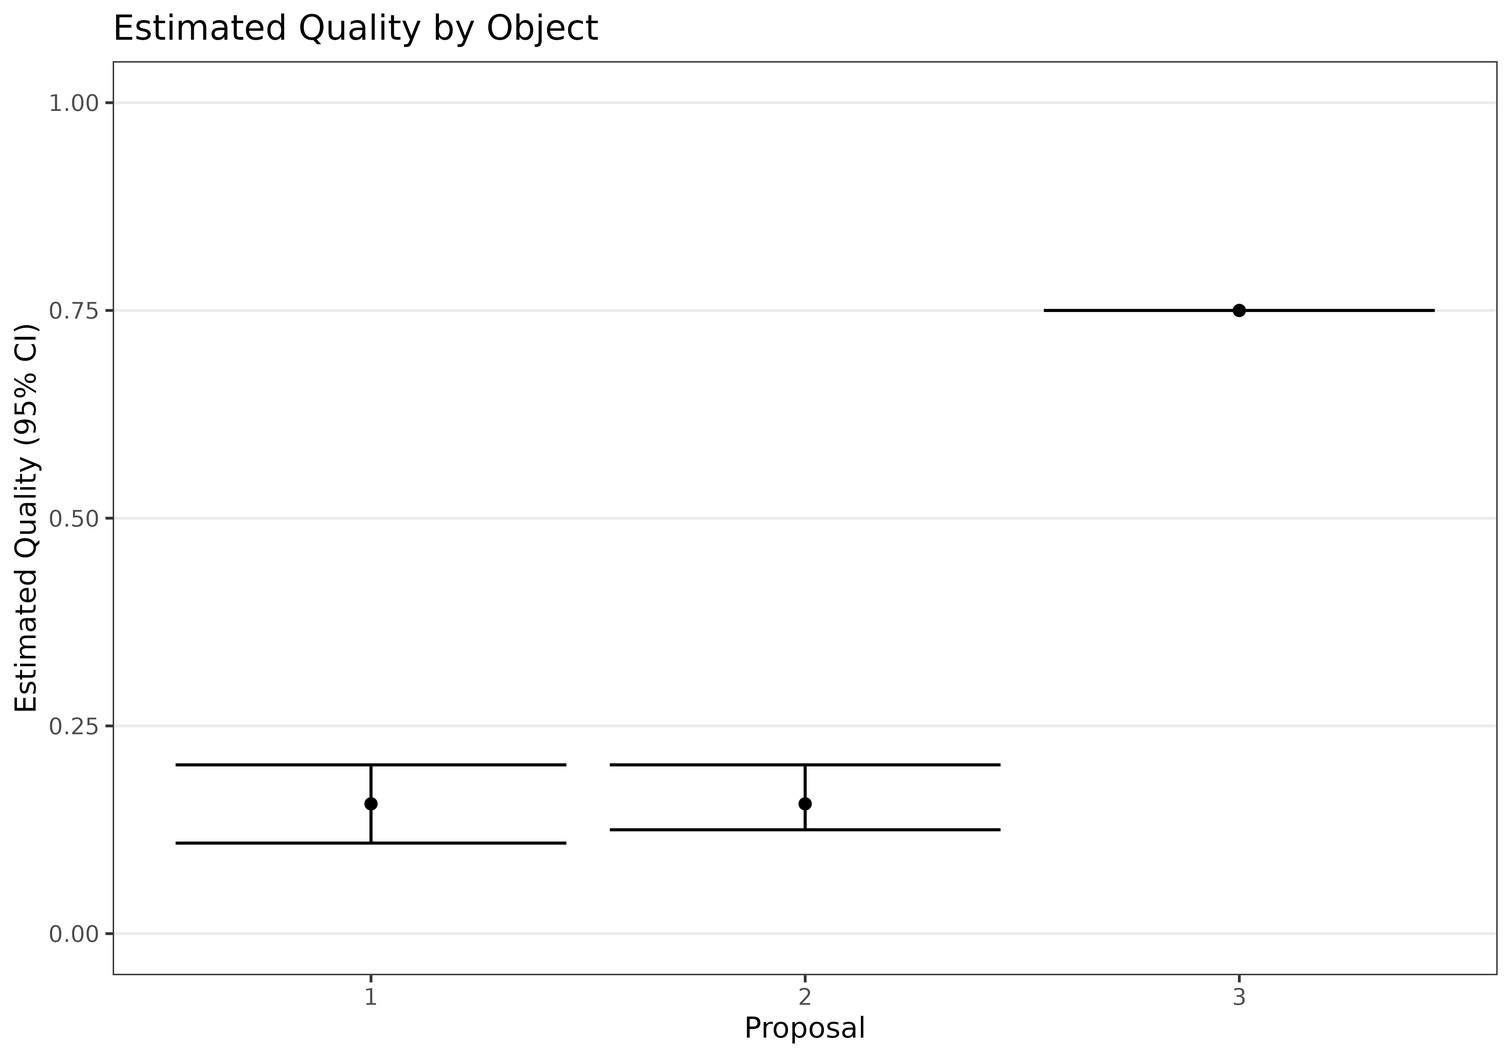
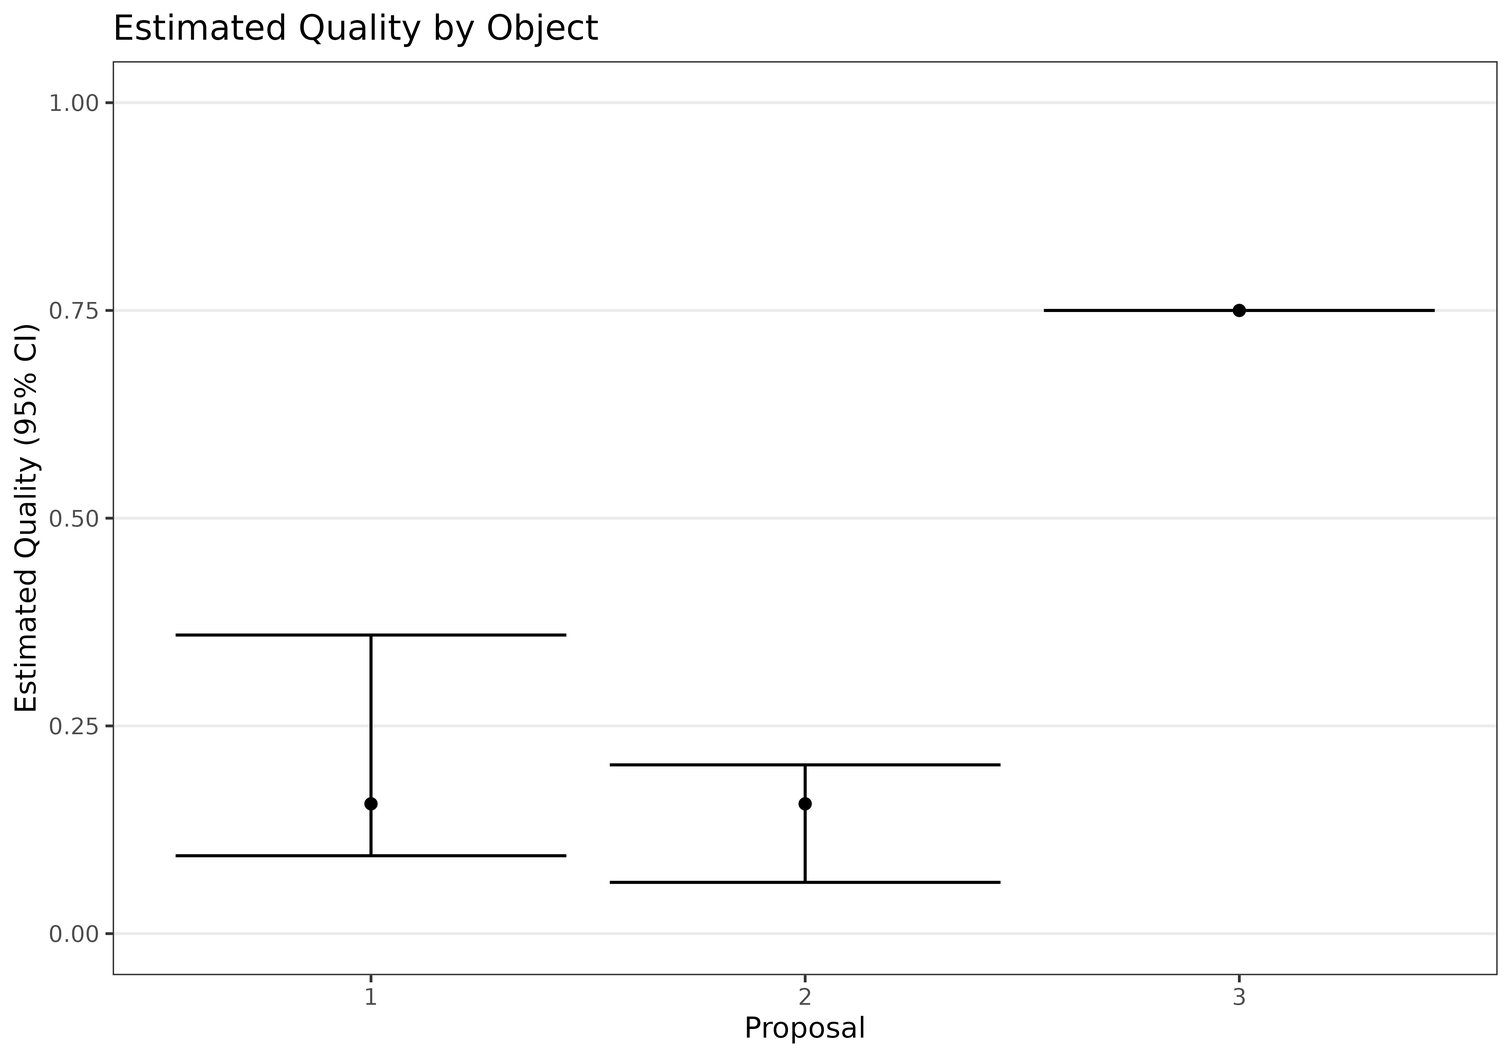
Deploying to gh-pages from @ pearce790/rankrate@f9b3c4f29bfd0eed65bd21937f1b0fa3187043d0 🚀

diff --git a/reference/ci_mb.html b/reference/ci_mb.html
@@ -113,9 +113,9 @@ matrix of bootstrap estimates of (p,theta) (returned only if <code>all==TRUE</co
     <div class="sourceCode"><pre class="sourceCode r"><code><span class="r-in"><span><span class="fu"><a href="https://rdrr.io/r/utils/data.html" class="external-link">data</a></span><span class="op">(</span><span class="st">"ToyData1"</span><span class="op">)</span></span></span>
 <span class="r-in"><span><span class="fu">ci_mb</span><span class="op">(</span><span class="va">ToyData1</span><span class="op">$</span><span class="va">rankings</span>,<span class="va">ToyData1</span><span class="op">$</span><span class="va">ratings</span>,<span class="va">ToyData1</span><span class="op">$</span><span class="va">M</span>,method<span class="op">=</span><span class="st">"ASTAR"</span>,all<span class="op">=</span><span class="cn">TRUE</span><span class="op">)</span></span></span>
 <span class="r-out co"><span class="r-pr">#&gt;</span> $ci</span>
-<span class="r-out co"><span class="r-pr">#&gt;</span>            p1        p2   p3 theta</span>
-<span class="r-out co"><span class="r-pr">#&gt;</span> 5%  0.0781250 0.0781250 0.75 1e+08</span>
-<span class="r-out co"><span class="r-pr">#&gt;</span> 95% 0.1804687 0.1804687 0.75 1e+08</span>
+<span class="r-out co"><span class="r-pr">#&gt;</span>           p1       p2   p3 theta</span>
+<span class="r-out co"><span class="r-pr">#&gt;</span> 5%  0.078125 0.078125 0.75 1e+08</span>
+<span class="r-out co"><span class="r-pr">#&gt;</span> 95% 0.171875 0.171875 0.75 1e+08</span>
 <span class="r-out co"><span class="r-pr">#&gt;</span> </span>
 <span class="r-out co"><span class="r-pr">#&gt;</span> $ci_ranks</span>
 <span class="r-out co"><span class="r-pr">#&gt;</span>     Object1 Object2 Object3</span>
@@ -177,55 +177,55 @@ matrix of bootstrap estimates of (p,theta) (returned only if <code>all==TRUE</co
 <span class="r-out co"><span class="r-pr">#&gt;</span> </span>
 <span class="r-out co"><span class="r-pr">#&gt;</span> $bootstrap_ptheta</span>
 <span class="r-out co"><span class="r-pr">#&gt;</span>             p1       p2   p3 theta</span>
-<span class="r-out co"><span class="r-pr">#&gt;</span>  [1,] 0.140625 0.140625 0.75 1e+08</span>
-<span class="r-out co"><span class="r-pr">#&gt;</span>  [2,] 0.093750 0.093750 0.75 1e+08</span>
-<span class="r-out co"><span class="r-pr">#&gt;</span>  [3,] 0.203125 0.203125 0.75 1e+08</span>
-<span class="r-out co"><span class="r-pr">#&gt;</span>  [4,] 0.109375 0.109375 0.75 1e+08</span>
-<span class="r-out co"><span class="r-pr">#&gt;</span>  [5,] 0.156250 0.156250 0.75 1e+08</span>
-<span class="r-out co"><span class="r-pr">#&gt;</span>  [6,] 0.156250 0.156250 0.75 1e+08</span>
-<span class="r-out co"><span class="r-pr">#&gt;</span>  [7,] 0.109375 0.109375 0.75 1e+08</span>
+<span class="r-out co"><span class="r-pr">#&gt;</span>  [1,] 0.078125 0.078125 0.75 1e+08</span>
+<span class="r-out co"><span class="r-pr">#&gt;</span>  [2,] 0.125000 0.125000 0.75 1e+08</span>
+<span class="r-out co"><span class="r-pr">#&gt;</span>  [3,] 0.140625 0.140625 0.75 1e+08</span>
+<span class="r-out co"><span class="r-pr">#&gt;</span>  [4,] 0.140625 0.140625 0.75 1e+08</span>
+<span class="r-out co"><span class="r-pr">#&gt;</span>  [5,] 0.093750 0.093750 0.75 1e+08</span>
+<span class="r-out co"><span class="r-pr">#&gt;</span>  [6,] 0.093750 0.093750 0.75 1e+08</span>
+<span class="r-out co"><span class="r-pr">#&gt;</span>  [7,] 0.093750 0.093750 0.75 1e+08</span>
 <span class="r-out co"><span class="r-pr">#&gt;</span>  [8,] 0.125000 0.125000 0.75 1e+08</span>
-<span class="r-out co"><span class="r-pr">#&gt;</span>  [9,] 0.171875 0.171875 0.75 1e+08</span>
-<span class="r-out co"><span class="r-pr">#&gt;</span> [10,] 0.062500 0.062500 0.75 1e+08</span>
-<span class="r-out co"><span class="r-pr">#&gt;</span> [11,] 0.093750 0.093750 0.75 1e+08</span>
-<span class="r-out co"><span class="r-pr">#&gt;</span> [12,] 0.140625 0.140625 0.75 1e+08</span>
-<span class="r-out co"><span class="r-pr">#&gt;</span> [13,] 0.093750 0.093750 0.75 1e+08</span>
+<span class="r-out co"><span class="r-pr">#&gt;</span>  [9,] 0.109375 0.109375 0.75 1e+08</span>
+<span class="r-out co"><span class="r-pr">#&gt;</span> [10,] 0.109375 0.109375 0.75 1e+08</span>
+<span class="r-out co"><span class="r-pr">#&gt;</span> [11,] 0.156250 0.156250 0.75 1e+08</span>
+<span class="r-out co"><span class="r-pr">#&gt;</span> [12,] 0.125000 0.125000 0.75 1e+08</span>
+<span class="r-out co"><span class="r-pr">#&gt;</span> [13,] 0.156250 0.156250 0.75 1e+08</span>
 <span class="r-out co"><span class="r-pr">#&gt;</span> [14,] 0.125000 0.125000 0.75 1e+08</span>
-<span class="r-out co"><span class="r-pr">#&gt;</span> [15,] 0.156250 0.156250 0.75 1e+08</span>
-<span class="r-out co"><span class="r-pr">#&gt;</span> [16,] 0.140625 0.140625 0.75 1e+08</span>
-<span class="r-out co"><span class="r-pr">#&gt;</span> [17,] 0.078125 0.078125 0.75 1e+08</span>
-<span class="r-out co"><span class="r-pr">#&gt;</span> [18,] 0.109375 0.109375 0.75 1e+08</span>
-<span class="r-out co"><span class="r-pr">#&gt;</span> [19,] 0.140625 0.140625 0.75 1e+08</span>
-<span class="r-out co"><span class="r-pr">#&gt;</span> [20,] 0.093750 0.093750 0.75 1e+08</span>
-<span class="r-out co"><span class="r-pr">#&gt;</span> [21,] 0.140625 0.140625 0.75 1e+08</span>
-<span class="r-out co"><span class="r-pr">#&gt;</span> [22,] 0.125000 0.125000 0.75 1e+08</span>
+<span class="r-out co"><span class="r-pr">#&gt;</span> [15,] 0.125000 0.125000 0.75 1e+08</span>
+<span class="r-out co"><span class="r-pr">#&gt;</span> [16,] 0.078125 0.078125 0.75 1e+08</span>
+<span class="r-out co"><span class="r-pr">#&gt;</span> [17,] 0.125000 0.125000 0.75 1e+08</span>
+<span class="r-out co"><span class="r-pr">#&gt;</span> [18,] 0.171875 0.171875 0.75 1e+08</span>
+<span class="r-out co"><span class="r-pr">#&gt;</span> [19,] 0.093750 0.093750 0.75 1e+08</span>
+<span class="r-out co"><span class="r-pr">#&gt;</span> [20,] 0.109375 0.109375 0.75 1e+08</span>
+<span class="r-out co"><span class="r-pr">#&gt;</span> [21,] 0.171875 0.171875 0.75 1e+08</span>
+<span class="r-out co"><span class="r-pr">#&gt;</span> [22,] 0.140625 0.140625 0.75 1e+08</span>
 <span class="r-out co"><span class="r-pr">#&gt;</span> [23,] 0.125000 0.125000 0.75 1e+08</span>
-<span class="r-out co"><span class="r-pr">#&gt;</span> [24,] 0.140625 0.140625 0.75 1e+08</span>
+<span class="r-out co"><span class="r-pr">#&gt;</span> [24,] 0.062500 0.062500 0.75 1e+08</span>
 <span class="r-out co"><span class="r-pr">#&gt;</span> [25,] 0.125000 0.125000 0.75 1e+08</span>
-<span class="r-out co"><span class="r-pr">#&gt;</span> [26,] 0.156250 0.156250 0.75 1e+08</span>
+<span class="r-out co"><span class="r-pr">#&gt;</span> [26,] 0.125000 0.125000 0.75 1e+08</span>
 <span class="r-out co"><span class="r-pr">#&gt;</span> [27,] 0.140625 0.140625 0.75 1e+08</span>
-<span class="r-out co"><span class="r-pr">#&gt;</span> [28,] 0.140625 0.140625 0.75 1e+08</span>
-<span class="r-out co"><span class="r-pr">#&gt;</span> [29,] 0.109375 0.109375 0.75 1e+08</span>
-<span class="r-out co"><span class="r-pr">#&gt;</span> [30,] 0.109375 0.109375 0.75 1e+08</span>
-<span class="r-out co"><span class="r-pr">#&gt;</span> [31,] 0.140625 0.140625 0.75 1e+08</span>
-<span class="r-out co"><span class="r-pr">#&gt;</span> [32,] 0.078125 0.078125 0.75 1e+08</span>
-<span class="r-out co"><span class="r-pr">#&gt;</span> [33,] 0.062500 0.062500 0.75 1e+08</span>
-<span class="r-out co"><span class="r-pr">#&gt;</span> [34,] 0.140625 0.140625 0.75 1e+08</span>
-<span class="r-out co"><span class="r-pr">#&gt;</span> [35,] 0.156250 0.156250 0.75 1e+08</span>
-<span class="r-out co"><span class="r-pr">#&gt;</span> [36,] 0.187500 0.187500 0.75 1e+08</span>
-<span class="r-out co"><span class="r-pr">#&gt;</span> [37,] 0.125000 0.125000 0.75 1e+08</span>
-<span class="r-out co"><span class="r-pr">#&gt;</span> [38,] 0.125000 0.125000 0.75 1e+08</span>
-<span class="r-out co"><span class="r-pr">#&gt;</span> [39,] 0.156250 0.156250 0.75 1e+08</span>
+<span class="r-out co"><span class="r-pr">#&gt;</span> [28,] 0.093750 0.093750 0.75 1e+08</span>
+<span class="r-out co"><span class="r-pr">#&gt;</span> [29,] 0.078125 0.078125 0.75 1e+08</span>
+<span class="r-out co"><span class="r-pr">#&gt;</span> [30,] 0.046875 0.046875 0.75 1e+08</span>
+<span class="r-out co"><span class="r-pr">#&gt;</span> [31,] 0.203125 0.203125 0.75 1e+08</span>
+<span class="r-out co"><span class="r-pr">#&gt;</span> [32,] 0.093750 0.093750 0.75 1e+08</span>
+<span class="r-out co"><span class="r-pr">#&gt;</span> [33,] 0.078125 0.078125 0.75 1e+08</span>
+<span class="r-out co"><span class="r-pr">#&gt;</span> [34,] 0.093750 0.093750 0.75 1e+08</span>
+<span class="r-out co"><span class="r-pr">#&gt;</span> [35,] 0.093750 0.093750 0.75 1e+08</span>
+<span class="r-out co"><span class="r-pr">#&gt;</span> [36,] 0.140625 0.140625 0.75 1e+08</span>
+<span class="r-out co"><span class="r-pr">#&gt;</span> [37,] 0.140625 0.140625 0.75 1e+08</span>
+<span class="r-out co"><span class="r-pr">#&gt;</span> [38,] 0.109375 0.109375 0.75 1e+08</span>
+<span class="r-out co"><span class="r-pr">#&gt;</span> [39,] 0.187500 0.187500 0.75 1e+08</span>
 <span class="r-out co"><span class="r-pr">#&gt;</span> [40,] 0.093750 0.093750 0.75 1e+08</span>
-<span class="r-out co"><span class="r-pr">#&gt;</span> [41,] 0.093750 0.093750 0.75 1e+08</span>
+<span class="r-out co"><span class="r-pr">#&gt;</span> [41,] 0.140625 0.140625 0.75 1e+08</span>
 <span class="r-out co"><span class="r-pr">#&gt;</span> [42,] 0.156250 0.156250 0.75 1e+08</span>
 <span class="r-out co"><span class="r-pr">#&gt;</span> [43,] 0.125000 0.125000 0.75 1e+08</span>
-<span class="r-out co"><span class="r-pr">#&gt;</span> [44,] 0.078125 0.078125 0.75 1e+08</span>
-<span class="r-out co"><span class="r-pr">#&gt;</span> [45,] 0.140625 0.140625 0.75 1e+08</span>
-<span class="r-out co"><span class="r-pr">#&gt;</span> [46,] 0.203125 0.203125 0.75 1e+08</span>
-<span class="r-out co"><span class="r-pr">#&gt;</span> [47,] 0.125000 0.125000 0.75 1e+08</span>
-<span class="r-out co"><span class="r-pr">#&gt;</span> [48,] 0.109375 0.109375 0.75 1e+08</span>
-<span class="r-out co"><span class="r-pr">#&gt;</span> [49,] 0.140625 0.140625 0.75 1e+08</span>
+<span class="r-out co"><span class="r-pr">#&gt;</span> [44,] 0.093750 0.093750 0.75 1e+08</span>
+<span class="r-out co"><span class="r-pr">#&gt;</span> [45,] 0.125000 0.125000 0.75 1e+08</span>
+<span class="r-out co"><span class="r-pr">#&gt;</span> [46,] 0.125000 0.125000 0.75 1e+08</span>
+<span class="r-out co"><span class="r-pr">#&gt;</span> [47,] 0.156250 0.156250 0.75 1e+08</span>
+<span class="r-out co"><span class="r-pr">#&gt;</span> [48,] 0.125000 0.125000 0.75 1e+08</span>
+<span class="r-out co"><span class="r-pr">#&gt;</span> [49,] 0.109375 0.109375 0.75 1e+08</span>
 <span class="r-out co"><span class="r-pr">#&gt;</span> [50,] 0.109375 0.109375 0.75 1e+08</span>
 <span class="r-out co"><span class="r-pr">#&gt;</span> </span>
 <span class="r-in"><span></span></span>

diff --git a/reference/rmb.html b/reference/rmb.html
@@ -96,19 +96,19 @@ and <code>M</code>, the inputted maximum integer rating.</p>
     <div class="sourceCode"><pre class="sourceCode r"><code><span class="r-in"><span><span class="fu">rmb</span><span class="op">(</span>I<span class="op">=</span><span class="fl">5</span>,p<span class="op">=</span><span class="fu"><a href="https://rdrr.io/r/base/c.html" class="external-link">c</a></span><span class="op">(</span><span class="fl">.1</span>,<span class="fl">.3</span>,<span class="fl">.4</span>,<span class="fl">.7</span>,<span class="fl">.9</span><span class="op">)</span>,theta<span class="op">=</span><span class="fl">1</span>,M<span class="op">=</span><span class="fl">10</span><span class="op">)</span></span></span>
 <span class="r-out co"><span class="r-pr">#&gt;</span> $ratings</span>
 <span class="r-out co"><span class="r-pr">#&gt;</span>      [,1] [,2] [,3] [,4] [,5]</span>
-<span class="r-out co"><span class="r-pr">#&gt;</span> [1,]    3    2    6    9   10</span>
-<span class="r-out co"><span class="r-pr">#&gt;</span> [2,]    1    5    3    9    8</span>
-<span class="r-out co"><span class="r-pr">#&gt;</span> [3,]    1    3    4    6    8</span>
-<span class="r-out co"><span class="r-pr">#&gt;</span> [4,]    1    2    4    8    7</span>
-<span class="r-out co"><span class="r-pr">#&gt;</span> [5,]    2    2    3    6    9</span>
+<span class="r-out co"><span class="r-pr">#&gt;</span> [1,]    2    1    4    7    9</span>
+<span class="r-out co"><span class="r-pr">#&gt;</span> [2,]    1    2    2    8    9</span>
+<span class="r-out co"><span class="r-pr">#&gt;</span> [3,]    0    4    6    4    9</span>
+<span class="r-out co"><span class="r-pr">#&gt;</span> [4,]    0    4    5    8   10</span>
+<span class="r-out co"><span class="r-pr">#&gt;</span> [5,]    2    6    7    9    9</span>
 <span class="r-out co"><span class="r-pr">#&gt;</span> </span>
 <span class="r-out co"><span class="r-pr">#&gt;</span> $rankings</span>
 <span class="r-out co"><span class="r-pr">#&gt;</span>      [,1] [,2] [,3] [,4] [,5]</span>
-<span class="r-out co"><span class="r-pr">#&gt;</span> [1,]    2    1    3    4    5</span>
-<span class="r-out co"><span class="r-pr">#&gt;</span> [2,]    2    3    1    4    5</span>
-<span class="r-out co"><span class="r-pr">#&gt;</span> [3,]    2    4    1    3    5</span>
-<span class="r-out co"><span class="r-pr">#&gt;</span> [4,]    2    3    4    1    5</span>
-<span class="r-out co"><span class="r-pr">#&gt;</span> [5,]    2    1    3    5    4</span>
+<span class="r-out co"><span class="r-pr">#&gt;</span> [1,]    1    3    2    4    5</span>
+<span class="r-out co"><span class="r-pr">#&gt;</span> [2,]    1    3    5    2    4</span>
+<span class="r-out co"><span class="r-pr">#&gt;</span> [3,]    1    2    3    5    4</span>
+<span class="r-out co"><span class="r-pr">#&gt;</span> [4,]    3    1    4    2    5</span>
+<span class="r-out co"><span class="r-pr">#&gt;</span> [5,]    1    4    3    5    2</span>
 <span class="r-out co"><span class="r-pr">#&gt;</span> </span>
 <span class="r-out co"><span class="r-pr">#&gt;</span> $M</span>
 <span class="r-out co"><span class="r-pr">#&gt;</span> [1] 10</span>
@@ -116,16 +116,16 @@ and <code>M</code>, the inputted maximum integer rating.</p>
 <span class="r-in"><span><span class="fu">rmb</span><span class="op">(</span>I<span class="op">=</span><span class="fl">10</span>,p<span class="op">=</span><span class="fu"><a href="https://rdrr.io/r/base/c.html" class="external-link">c</a></span><span class="op">(</span><span class="fl">.1</span>,<span class="fl">.3</span>,<span class="fl">.3</span>,<span class="fl">.7</span>,<span class="fl">.9</span><span class="op">)</span>,pi0<span class="op">=</span><span class="fu"><a href="https://rdrr.io/r/base/c.html" class="external-link">c</a></span><span class="op">(</span><span class="fl">1</span>,<span class="fl">3</span>,<span class="fl">2</span>,<span class="fl">4</span>,<span class="fl">5</span><span class="op">)</span>,theta<span class="op">=</span><span class="fl">5</span>,M<span class="op">=</span><span class="fl">40</span>,R<span class="op">=</span><span class="fl">3</span><span class="op">)</span></span></span>
 <span class="r-out co"><span class="r-pr">#&gt;</span> $ratings</span>
 <span class="r-out co"><span class="r-pr">#&gt;</span>       [,1] [,2] [,3] [,4] [,5]</span>
-<span class="r-out co"><span class="r-pr">#&gt;</span>  [1,]    3   11   13   31   38</span>
-<span class="r-out co"><span class="r-pr">#&gt;</span>  [2,]    2   10   12   28   34</span>
-<span class="r-out co"><span class="r-pr">#&gt;</span>  [3,]    3   15   11   31   37</span>
-<span class="r-out co"><span class="r-pr">#&gt;</span>  [4,]    5   12   14   25   35</span>
-<span class="r-out co"><span class="r-pr">#&gt;</span>  [5,]    5    7   16   29   33</span>
-<span class="r-out co"><span class="r-pr">#&gt;</span>  [6,]    6   13    8   28   36</span>
-<span class="r-out co"><span class="r-pr">#&gt;</span>  [7,]    5   11   14   29   35</span>
-<span class="r-out co"><span class="r-pr">#&gt;</span>  [8,]    2   14    5   30   38</span>
-<span class="r-out co"><span class="r-pr">#&gt;</span>  [9,]    6   12    9   34   38</span>
-<span class="r-out co"><span class="r-pr">#&gt;</span> [10,]    5   15   12   27   36</span>
+<span class="r-out co"><span class="r-pr">#&gt;</span>  [1,]    7   14   12   25   35</span>
+<span class="r-out co"><span class="r-pr">#&gt;</span>  [2,]    4   17   16   25   35</span>
+<span class="r-out co"><span class="r-pr">#&gt;</span>  [3,]    6   12   11   25   36</span>
+<span class="r-out co"><span class="r-pr">#&gt;</span>  [4,]    5   11   12   31   33</span>
+<span class="r-out co"><span class="r-pr">#&gt;</span>  [5,]    4    4   13   22   34</span>
+<span class="r-out co"><span class="r-pr">#&gt;</span>  [6,]    4   10   16   28   37</span>
+<span class="r-out co"><span class="r-pr">#&gt;</span>  [7,]    6   12   11   25   35</span>
+<span class="r-out co"><span class="r-pr">#&gt;</span>  [8,]    7    5   12   27   37</span>
+<span class="r-out co"><span class="r-pr">#&gt;</span>  [9,]    4   10   15   26   37</span>
+<span class="r-out co"><span class="r-pr">#&gt;</span> [10,]    4   11    9   31   39</span>
 <span class="r-out co"><span class="r-pr">#&gt;</span> </span>
 <span class="r-out co"><span class="r-pr">#&gt;</span> $rankings</span>
 <span class="r-out co"><span class="r-pr">#&gt;</span>       [,1] [,2] [,3] [,4] [,5]</span>
@@ -138,7 +138,7 @@ and <code>M</code>, the inputted maximum integer rating.</p>
 <span class="r-out co"><span class="r-pr">#&gt;</span>  [7,]    1    3    2   NA   NA</span>
 <span class="r-out co"><span class="r-pr">#&gt;</span>  [8,]    1    3    2   NA   NA</span>
 <span class="r-out co"><span class="r-pr">#&gt;</span>  [9,]    1    3    2   NA   NA</span>
-<span class="r-out co"><span class="r-pr">#&gt;</span> [10,]    1    3    2   NA   NA</span>
+<span class="r-out co"><span class="r-pr">#&gt;</span> [10,]    3    1    2   NA   NA</span>
 <span class="r-out co"><span class="r-pr">#&gt;</span> </span>
 <span class="r-out co"><span class="r-pr">#&gt;</span> $M</span>
 <span class="r-out co"><span class="r-pr">#&gt;</span> [1] 40</span>

diff --git a/reference/rmall.html b/reference/rmall.html
@@ -85,25 +85,25 @@ rankings are drawn by definition.</p></dd>
     <h2>Examples</h2>
     <div class="sourceCode"><pre class="sourceCode r"><code><span class="r-in"><span><span class="fu">rmall</span><span class="op">(</span>I<span class="op">=</span><span class="fl">5</span>,pi0<span class="op">=</span><span class="fl">1</span><span class="op">:</span><span class="fl">5</span>,theta<span class="op">=</span><span class="fl">1</span>,R<span class="op">=</span><span class="fl">3</span><span class="op">)</span></span></span>
 <span class="r-out co"><span class="r-pr">#&gt;</span>      [,1] [,2] [,3] [,4] [,5]</span>
-<span class="r-out co"><span class="r-pr">#&gt;</span> [1,]    2    3    4   NA   NA</span>
-<span class="r-out co"><span class="r-pr">#&gt;</span> [2,]    4    1    2   NA   NA</span>
-<span class="r-out co"><span class="r-pr">#&gt;</span> [3,]    1    2    4   NA   NA</span>
-<span class="r-out co"><span class="r-pr">#&gt;</span> [4,]    1    2    3   NA   NA</span>
-<span class="r-out co"><span class="r-pr">#&gt;</span> [5,]    3    1    5   NA   NA</span>
+<span class="r-out co"><span class="r-pr">#&gt;</span> [1,]    5    1    3   NA   NA</span>
+<span class="r-out co"><span class="r-pr">#&gt;</span> [2,]    1    3    4   NA   NA</span>
+<span class="r-out co"><span class="r-pr">#&gt;</span> [3,]    1    2    3   NA   NA</span>
+<span class="r-out co"><span class="r-pr">#&gt;</span> [4,]    1    2    4   NA   NA</span>
+<span class="r-out co"><span class="r-pr">#&gt;</span> [5,]    2    3    1   NA   NA</span>
 <span class="r-in"><span><span class="fu">rmall</span><span class="op">(</span>I<span class="op">=</span><span class="fl">5</span>,pi0<span class="op">=</span><span class="fl">1</span><span class="op">:</span><span class="fl">3</span>,theta<span class="op">=</span><span class="fl">.5</span>,R<span class="op">=</span><span class="fu"><a href="https://rdrr.io/r/base/c.html" class="external-link">c</a></span><span class="op">(</span><span class="fl">1</span>,<span class="fl">1</span>,<span class="fl">1</span>,<span class="fl">1</span>,<span class="fl">3</span><span class="op">)</span><span class="op">)</span></span></span>
 <span class="r-out co"><span class="r-pr">#&gt;</span>      [,1] [,2] [,3]</span>
 <span class="r-out co"><span class="r-pr">#&gt;</span> [1,]    1   NA   NA</span>
-<span class="r-out co"><span class="r-pr">#&gt;</span> [2,]    2   NA   NA</span>
-<span class="r-out co"><span class="r-pr">#&gt;</span> [3,]    1   NA   NA</span>
+<span class="r-out co"><span class="r-pr">#&gt;</span> [2,]    3   NA   NA</span>
+<span class="r-out co"><span class="r-pr">#&gt;</span> [3,]    2   NA   NA</span>
 <span class="r-out co"><span class="r-pr">#&gt;</span> [4,]    1   NA   NA</span>
 <span class="r-out co"><span class="r-pr">#&gt;</span> [5,]    2    1    3</span>
 <span class="r-in"><span><span class="fu">rmall</span><span class="op">(</span>I<span class="op">=</span><span class="fl">5</span>,pi0<span class="op">=</span><span class="fl">1</span><span class="op">:</span><span class="fl">3</span>,theta<span class="op">=</span><span class="fl">.5</span><span class="op">)</span></span></span>
 <span class="r-out co"><span class="r-pr">#&gt;</span>      [,1] [,2] [,3]</span>
 <span class="r-out co"><span class="r-pr">#&gt;</span> [1,]    2    1    3</span>
-<span class="r-out co"><span class="r-pr">#&gt;</span> [2,]    1    3    2</span>
+<span class="r-out co"><span class="r-pr">#&gt;</span> [2,]    3    2    1</span>
 <span class="r-out co"><span class="r-pr">#&gt;</span> [3,]    2    1    3</span>
 <span class="r-out co"><span class="r-pr">#&gt;</span> [4,]    2    1    3</span>
-<span class="r-out co"><span class="r-pr">#&gt;</span> [5,]    2    1    3</span>
+<span class="r-out co"><span class="r-pr">#&gt;</span> [5,]    2    3    1</span>
 <span class="r-in"><span></span></span>
 </code></pre></div>
     </div>

diff --git a/index.html b/index.html
@@ -12,7 +12,7 @@
 <link rel="stylesheet" href="https://cdnjs.cloudflare.com/ajax/libs/font-awesome/5.12.1/css/v4-shims.min.css" integrity="sha256-wZjR52fzng1pJHwx4aV2AO3yyTOXrcDW7jBpJtTwVxw=" crossorigin="anonymous">
 <!-- clipboard.js --><script src="https://cdnjs.cloudflare.com/ajax/libs/clipboard.js/2.0.6/clipboard.min.js" integrity="sha256-inc5kl9MA1hkeYUt+EC3BhlIgyp/2jDIyBLS6k3UxPI=" crossorigin="anonymous"></script><!-- headroom.js --><script src="https://cdnjs.cloudflare.com/ajax/libs/headroom/0.11.0/headroom.min.js" integrity="sha256-AsUX4SJE1+yuDu5+mAVzJbuYNPHj/WroHuZ8Ir/CkE0=" crossorigin="anonymous"></script><script src="https://cdnjs.cloudflare.com/ajax/libs/headroom/0.11.0/jQuery.headroom.min.js" integrity="sha256-ZX/yNShbjqsohH1k95liqY9Gd8uOiE1S4vZc+9KQ1K4=" crossorigin="anonymous"></script><!-- pkgdown --><link href="pkgdown.css" rel="stylesheet">
 <script src="pkgdown.js"></script><meta property="og:title" content="Joint Statistical Models for Preference Learning with Rankings and Ratings">
-<meta property="og:description" content="This package implements key estimation procedures of the Mallows-Binomial model, the first joint statistical model for preference learning for rankings and ratings. ">
+<meta property="og:description" content="Statistical tools for the Mallows-Binomial model, the first joint statistical model for preference learning for rankings and ratings. ">
 <!-- mathjax --><script src="https://cdnjs.cloudflare.com/ajax/libs/mathjax/2.7.5/MathJax.js" integrity="sha256-nvJJv9wWKEm88qvoQl9ekL2J+k/RWIsaSScxxlsrv8k=" crossorigin="anonymous"></script><script src="https://cdnjs.cloudflare.com/ajax/libs/mathjax/2.7.5/config/TeX-AMS-MML_HTMLorMML.js" integrity="sha256-84DKXVJXs0/F8OTMzX4UR909+jtl4G7SPypPavF+GfA=" crossorigin="anonymous"></script><!--[if lt IE 9]>
 <script src="https://oss.maxcdn.com/html5shiv/3.7.3/html5shiv.min.js"></script>
 <script src="https://oss.maxcdn.com/respond/1.4.2/respond.min.js"></script>
